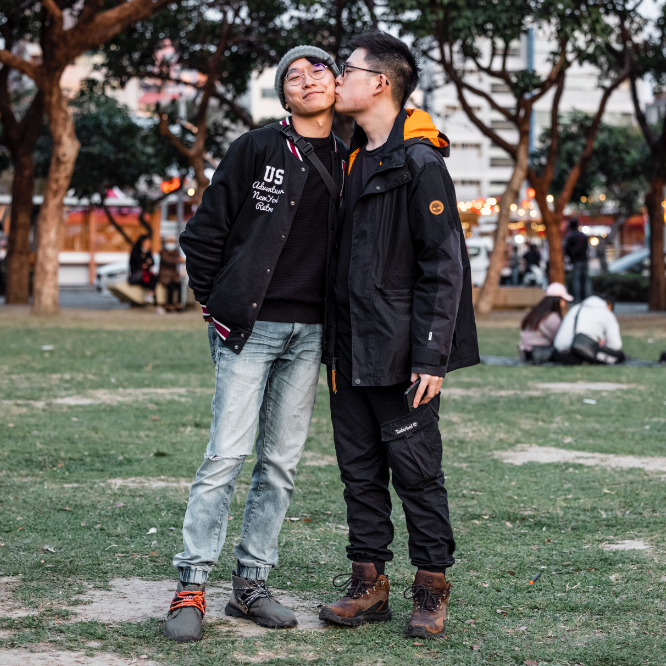
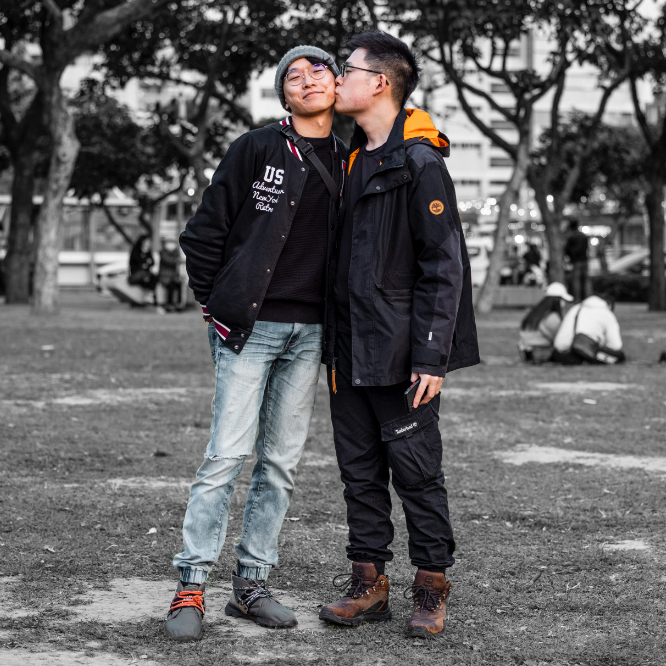
修改輪播圖片

diff --git a/build/web/flutter_service_worker.js b/build/web/flutter_service_worker.js
@@ -4,8 +4,8 @@ const TEMP = 'flutter-temp-cache';
 const CACHE_NAME = 'flutter-app-cache';
 const RESOURCES = {
   "version.json": "d437f1cbf3f5ac9b7a710fa814217dbf",
-"index.html": "47360a02bc4c397c350b2db8a465c459",
-"/": "47360a02bc4c397c350b2db8a465c459",
+"index.html": "98420621e747558e2df965e06949421c",
+"/": "98420621e747558e2df965e06949421c",
 "main.dart.js": "20ba609bbc51c4a80f5aeaa7d7f3a25a",
 "favicon.png": "bded570080bd67f70737d5b23cad022f",
 "icons/Icon-192.png": "42c2aa62a4a11c93b56bb73a70d570a3",
@@ -97,29 +97,29 @@ const RESOURCES = {
 "assets/assets/shali_item.png": "cc817fc2f1c38d809b0152746677e89c",
 "assets/assets/phone.png": "07c833529ca7152a17e04ae0a65bcc59",
 "assets/assets/shali_sub_item.png": "d530c61cfaf28657d55b5f4835b8610c",
-"assets/assets/play6.png": "123e2474365c5de1bd9ca8dc4183b837",
+"assets/assets/play6.png": "c3972ba0b25e8053667d35089515b45f",
 "assets/assets/buzzy_img2.png": "f950d763268496b90fffb6acdd723307",
-"assets/assets/play7.png": "bce38d429cd659d759da3d2b9943a595",
+"assets/assets/play7.png": "ec91e97212534c897b36bbd0537160b4",
 "assets/assets/successful.png": "c6f5cdb9d664dba9d345ede7929438e2",
 "assets/assets/icon_up.png": "0a86c2cfb6eeeca20cf7900327a5c2b1",
 "assets/assets/patch_obi_and_shali_left.png": "977f6c021a3b4ddfc059c28efb9159bd",
 "assets/assets/obi_step5.png": "b97fd4baaad6f7f62323f1e164cd77d0",
 "assets/assets/order_buzzy.png": "5cb6579360b937c0f4705373d9538a91",
-"assets/assets/play5.png": "eed59bb9734f1f115b1b4fe4c80cfd5b",
+"assets/assets/play5.png": "c1a51002b94c919ef9259ff0a72e154d",
 "assets/assets/buzzy_img1.png": "ac1e5f10e00e8a2e0f7fd03dc4ce1385",
 "assets/assets/patch_obi_and_obi_right.png": "770efd7c549718e3e801d6847eb43954",
 "assets/assets/buzzy_item.png": "28a602a5ddd66f6ca302d2fae1857c45",
 "assets/assets/big_banner_backroung.png": "2bc029533c0ad1f9d452df4989869527",
-"assets/assets/play4.png": "328ecf3877f2aa8abaeeab772ad5c18d",
+"assets/assets/play4.png": "44f0804b81ca0d658d41bb3a61d541b7",
 "assets/assets/fonts/Beware.ttf": "89757901a50f65634aed49554f69d993",
 "assets/assets/buzzy_human.png": "8e3bc8d1b96f6676980041bd94c3a72e",
 "assets/assets/patch_r_obi_right.png": "35e1d60585a8fc9e0bccb7d82830bc66",
 "assets/assets/patch_l_shali_right.png": "7ab632a1da3f9a3173712c0cc26b1d15",
 "assets/assets/info_shali_and_obi_left.png": "9974bd864017aab8d514b0da6f04c6a6",
 "assets/assets/feedback.png": "92f37b9897a9c89188f14b4c78a36508",
-"assets/assets/play1.png": "279a476da33600b2e830b75a2826a408",
-"assets/assets/play3.png": "8c6944069f02bca292bcc3532d7401b2",
-"assets/assets/play2.png": "e2990a2af79c688d777605306d7054a7",
+"assets/assets/play1.png": "0740dca73cbfe5332aaa0eff4dfd2e63",
+"assets/assets/play3.png": "92be8299e36a109296dea272a0604653",
+"assets/assets/play2.png": "efdf46f091a07ab6138b239ce16beab4",
 "assets/assets/people.png": "b058ed134a4f5ca86842b319f53a1041",
 "assets/assets/obi_step2.png": "b3691d6307fca752e9c3a80ae1df0bb6"
 };

diff --git a/build/web/index.html b/build/web/index.html
@@ -26,7 +26,7 @@
   <script>
     if ('serviceWorker' in navigator) {
       window.addEventListener('flutter-first-frame', function () {
-        navigator.serviceWorker.register('flutter_service_worker.js?v=3368408015');
+        navigator.serviceWorker.register('flutter_service_worker.js?v=313520972');
       });
     }
   </script>
